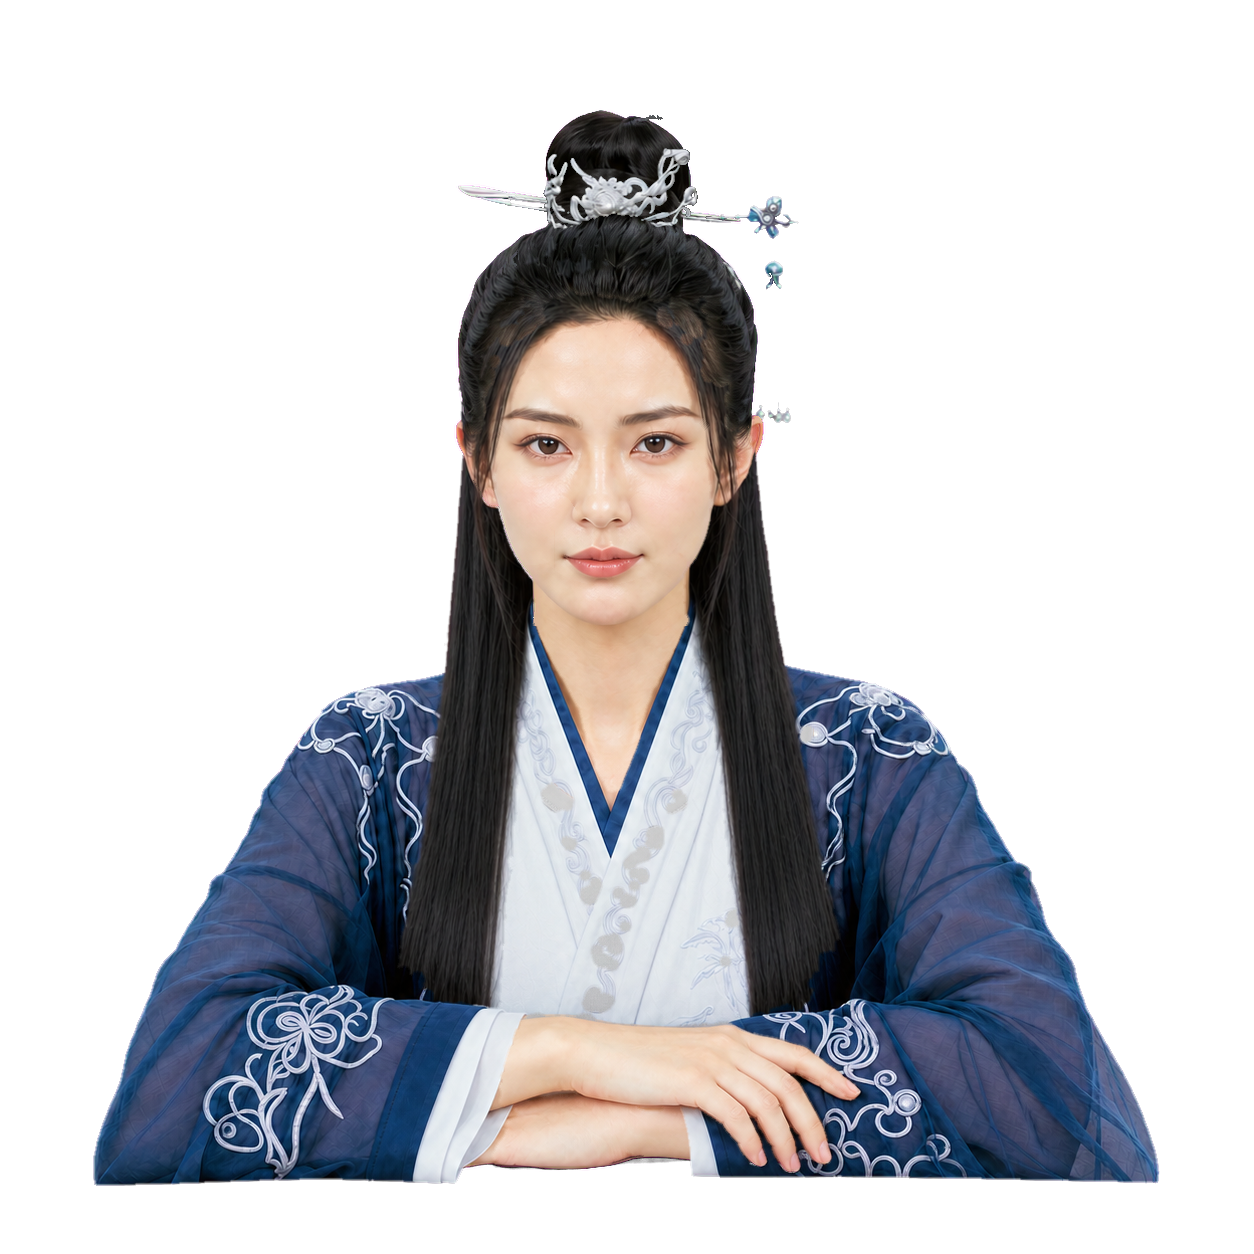
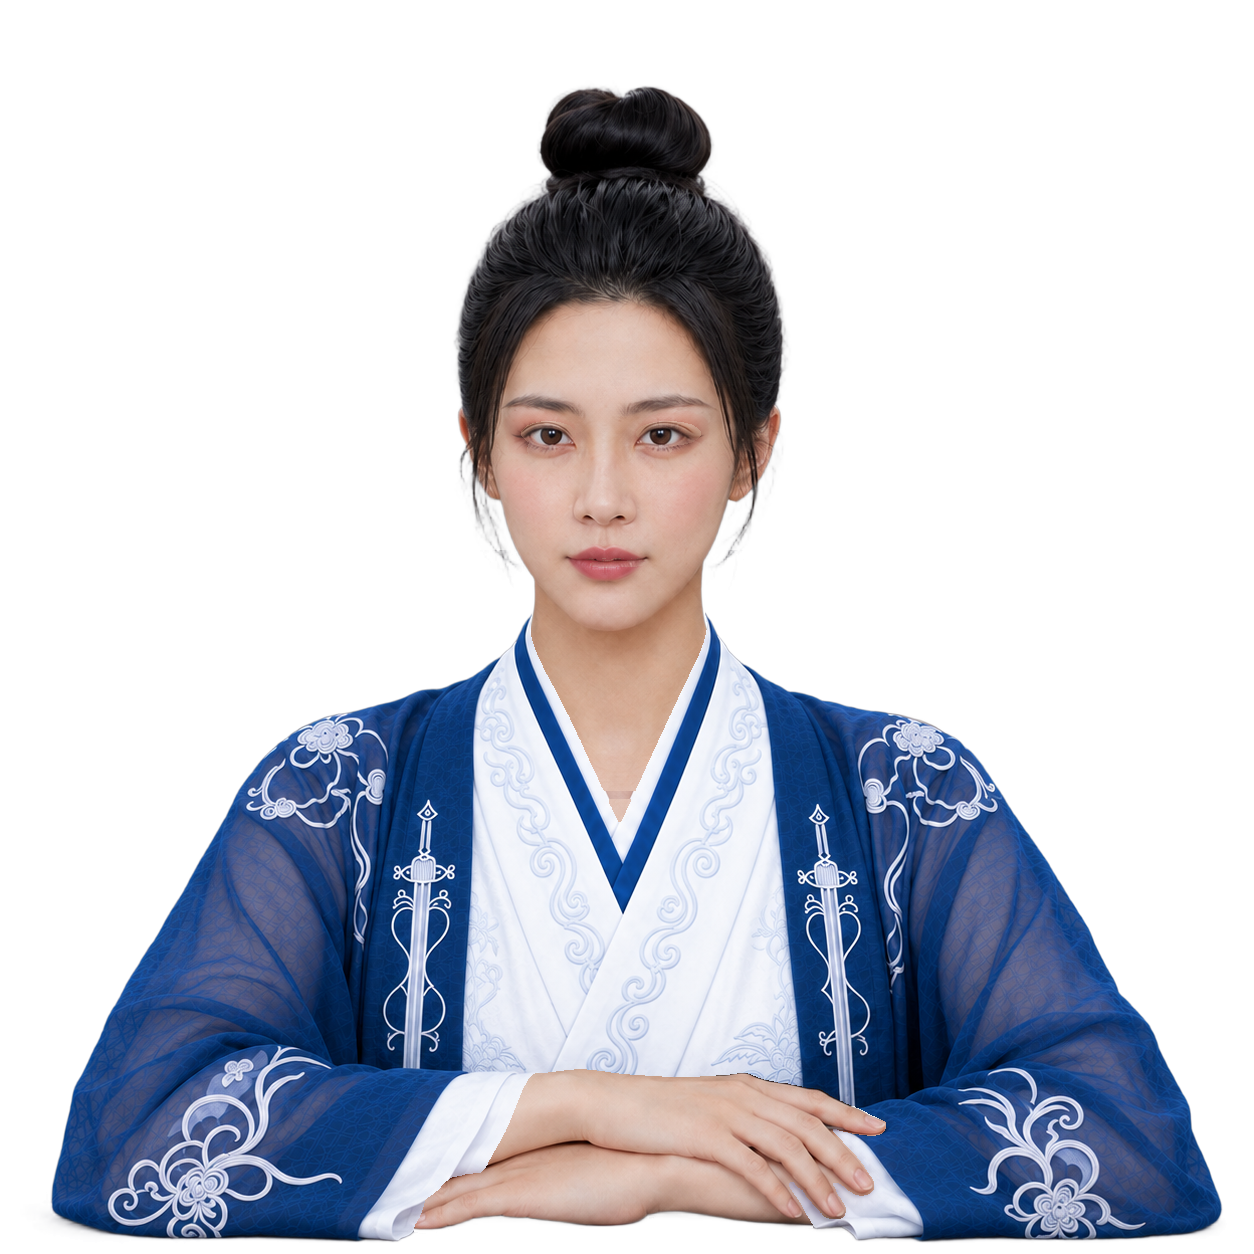
README 配圖同步 V5 外觀（行銷肖像改走產品完整表情渲染器）

diff --git a/tools/render_marketing_portraits.py b/tools/render_marketing_portraits.py
@@ -1,14 +1,10 @@
 """Render the composed half-body portraits used by README, installer and icon art.
 
-The runtime sprites under ``assets/expressions/`` are the bare generation-2
-base (bun, grey top, unpainted face); the official default outfit pack and the
-built-in ``classic`` makeup are composited over them at runtime by
-``infrastructure.active_outfit_overlay.ActiveOutfitOverlay``.  Marketing
-surfaces (README expression cards, installer wizard art, taskbar icon) must
-show that composed look, so this tool drives the very same overlay with a
-fresh, empty store -- which resolves to the official pack plus ``classic``
-makeup at 100 % intensity -- and writes the results to
-``docs/media/portraits/{expression}.png``.
+Marketing surfaces use the product half-body renderer after activating the
+selected character. Its installed V5 complete-expression frames provide the
+face and body; the official default outfit and built-in ``classic`` makeup use
+the same defaults as the approved product golden. Portrait resizing and canvas
+placement happen only after the product renderer has composed the appearance.
 
 Output is deterministic: the overlay paints fixed layers with fixed opacities
 and Qt's PNG encoder omits timestamp and software chunks, so re-running the
@@ -24,6 +20,7 @@ lazy import os
 lazy import sys
 lazy from collections.abc import Sequence
 lazy from pathlib import Path
+lazy from dataclasses import replace
 lazy from tempfile import TemporaryDirectory
 
 os.environ.setdefault("QT_QPA_PLATFORM", "offscreen")
@@ -39,11 +36,18 @@ lazy from PySide6.QtWidgets import QApplication
 lazy from application.character_runtime_bootstrap import activate_product_character_runtime
 lazy from domain.companion_animation_contract import EXPRESSION_POSES, outfit_silhouette
 lazy from infrastructure.active_outfit_overlay import ActiveOutfitOverlay
+lazy from infrastructure.layered_face_renderer import LayeredParametricFaceRenderer
+lazy from infrastructure.layered_face_assets import load_layered_face_assets
+lazy from domain.face_motion import FaceMotionController
+lazy from domain.character_runtime import CHARACTER_ASSET_PATHS
+lazy from domain.outfit_pack import restore_builtin_outfit
+lazy from domain.outfit_pack_makeup import (
+    DEFAULT_MAKEUP_INTENSITY, DEFAULT_SLOT_INTENSITIES_V2,
+    select_builtin_makeup, write_makeup_intensity, write_makeup_slot_intensity,
+)
 
-SPRITE_ROOT = ROOT / "assets" / "expressions"
 OUTPUT_ROOT = ROOT / "docs" / "media" / "portraits"
 PORTRAIT_SIZE = (1254, 1254)
-CLOSED_EYE_MAKEUP_SLOTS = frozenset({"eyes"})
 # The six README expression cards plus the canonical idle portrait that the
 # installer artwork and the taskbar icon are derived from.
 DEFAULT_EXPRESSIONS = (
@@ -63,33 +67,45 @@ def silhouette_for(expression: str) -> str:
     return outfit_silhouette(expression, EXPRESSION_POSES.get(expression, FRONT_POSE))
 
 
-def render_portrait(overlay: ActiveOutfitOverlay, expression: str) -> QImage:
-    source = SPRITE_ROOT / f"{expression}.png"
-    sprite = QPixmap(str(source))
-    if sprite.isNull():
-        raise RuntimeError(f"Half-body sprite could not be loaded: {source}")
-    if sprite.size().toTuple() != PORTRAIT_SIZE:
-        raise RuntimeError(f"Half-body sprite is not {PORTRAIT_SIZE}: {source}")
-    silhouette = silhouette_for(expression)
-    suppressed_makeup_slots = (
-        CLOSED_EYE_MAKEUP_SLOTS
-        if expression.startswith("blink") or expression.endswith("_speech_blink")
-        else frozenset()
+def prepare_marketing_store(store: Path) -> None:
+    """Select the same official outfit and classic defaults as the product golden."""
+    activate_product_character_runtime(ROOT)
+    restore_builtin_outfit(store)
+    write_makeup_intensity(store, DEFAULT_MAKEUP_INTENSITY)
+    for slot, intensity in DEFAULT_SLOT_INTENSITIES_V2.items():
+        write_makeup_slot_intensity(store, slot, intensity)
+    select_builtin_makeup(store, "classic")
+
+
+def portrait_renderer(overlay: ActiveOutfitOverlay) -> LayeredParametricFaceRenderer:
+    """Build the product half-body renderer after character activation."""
+    activate_product_character_runtime(ROOT)
+    return LayeredParametricFaceRenderer(
+        manifest=load_layered_face_assets(ROOT / CHARACTER_ASSET_PATHS["halfbody_layers"]),
+        outfit_overlay=overlay,
+        authority_dir=ROOT / CHARACTER_ASSET_PATHS["halfbody_root"],
+        detachable_dir=ROOT / CHARACTER_ASSET_PATHS["halfbody_detachable"],
     )
-    composed = overlay.apply(
-        sprite,
-        silhouette,
-        suppress_makeup_slots=suppressed_makeup_slots,
+
+
+def render_portrait(
+    overlay: ActiveOutfitOverlay,
+    expression: str,
+    *,
+    renderer: LayeredParametricFaceRenderer | None = None,
+    size: tuple[int, int] = PORTRAIT_SIZE,
+) -> QImage:
+    activate_product_character_runtime(ROOT)
+    pose = EXPRESSION_POSES.get(expression, FRONT_POSE)
+    motion = replace(
+        FaceMotionController().close(pose=pose, expression=expression), breath=0.0,
     )
-    if overlay.layer_count(
-        silhouette,
-        suppress_makeup_slots=suppressed_makeup_slots,
-    ) == 0:
-        raise RuntimeError(
-            f"No appearance layers were composited for {expression} ({silhouette}); "
-            "provide both the official default pack and the built-in makeup."
-        )
-    return composed.toImage().convertToFormat(QImage.Format_ARGB32)
+    base = QPixmap(*size)
+    base.fill(Qt.GlobalColor.transparent)
+    composed = (renderer or portrait_renderer(overlay)).render(base, motion, None)
+    if composed.isNull():
+        raise RuntimeError(f"Product renderer returned an empty portrait: {expression}")
+    return composed.toImage()
 
 
 def _alpha_bounds(image: QImage):
@@ -167,18 +183,19 @@ def render_all(
         raise ValueError("output names must match the expression count")
     written: list[tuple[Path, str]] = []
     with TemporaryDirectory(prefix="mohan-marketing-portraits-") as temporary:
-        # A fresh store with empty active.json / makeup.json selections resolves
-        # to the official pack and the built-in classic makeup at intensity 1.
+        store = Path(temporary) / "store"
+        prepare_marketing_store(store)
         overlay = ActiveOutfitOverlay(
-            Path(temporary) / "store",
+            store,
             ROOT,
             official_pack_root=ROOT / "assets" / "official-packs",
         )
+        renderer = portrait_renderer(overlay)
         for expression, name in zip(expressions, names, strict=True):
             if Path(name).name != name or not name.endswith(".png"):
                 raise ValueError(f"output name must be a PNG filename: {name}")
             image = _resize_portrait(
-                render_portrait(overlay, expression),
+                render_portrait(overlay, expression, renderer=renderer),
                 output_size,
                 crop_alpha=crop_alpha,
                 content_size=content_size,
@@ -220,7 +237,7 @@ def _arguments(argv: Sequence[str] | None) -> argparse.Namespace:
         "expressions",
         nargs="*",
         default=list(DEFAULT_EXPRESSIONS),
-        help="Sprite names under assets/expressions/ (default: the README six plus idle_front).",
+        help="Product expression names (default: the README six plus idle_front).",
     )
     parser.add_argument(
         "--output",

diff --git a/tests/test_render_marketing_portraits.py b/tests/test_render_marketing_portraits.py
@@ -1,0 +1,64 @@
+"""Marketing portraits retain the approved product pixel contract."""
+from __future__ import annotations
+
+lazy import json
+lazy from pathlib import Path
+
+lazy import pytest
+lazy from PySide6.QtWidgets import QApplication
+
+lazy from application.character_runtime_bootstrap import activate_product_character_runtime
+lazy from infrastructure.active_outfit_overlay import ActiveOutfitOverlay
+lazy from tools.golden_render import pixel_sha256
+lazy from tools.render_marketing_portraits import (
+    DEFAULT_EXPRESSIONS, ROOT, portrait_renderer, prepare_marketing_store, render_portrait,
+)
+
+
+SAVED_PORTRAIT_MEAN_DIFFERENCE_LIMIT = 0.002
+
+
+@pytest.mark.parametrize("expression", DEFAULT_EXPRESSIONS)
+def test_marketing_portrait_matches_approved_classic_rest(
+    tmp_path: Path, expression: str,
+) -> None:
+    activate_product_character_runtime(ROOT)
+    QApplication.instance() or QApplication([])
+    store = tmp_path / "store"
+    prepare_marketing_store(store)
+    overlay = ActiveOutfitOverlay(store, ROOT)
+    image = render_portrait(
+        overlay, expression, renderer=portrait_renderer(overlay), size=(465, 465),
+    )
+    manifest = json.loads((ROOT / "tests/golden/golden-manifest.json").read_text(encoding="utf-8"))
+    cell = next(
+        cell for cell in manifest["cells"]
+        if cell["id"] == f"half__{expression}__classic__rest"
+    )
+    assert image.size().toTuple() == (465, 465)
+    assert pixel_sha256(image) == cell["pixel_sha256"]
+
+
+@pytest.mark.parametrize("expression", DEFAULT_EXPRESSIONS)
+def test_saved_portrait_resizes_to_product_golden(tmp_path: Path, expression: str) -> None:
+    from PySide6.QtCore import Qt
+    from PySide6.QtGui import QImage
+    import numpy as np
+    from tools.golden_render import _rgba_bytes
+    from tools.render_marketing_portraits import render_all
+
+    render_all((expression,), tmp_path / "portraits")
+    image = QImage(str(tmp_path / "portraits" / f"{expression}.png")).scaled(
+        465, 465, Qt.IgnoreAspectRatio, Qt.SmoothTransformation,
+    )
+    store = tmp_path / "store"
+    prepare_marketing_store(store)
+    reference = render_portrait(
+        ActiveOutfitOverlay(store, ROOT), expression, size=(465, 465),
+    )
+    actual = np.frombuffer(_rgba_bytes(image), dtype=np.uint8).astype(int)
+    expected = np.frombuffer(_rgba_bytes(reference), dtype=np.uint8).astype(int)
+    difference = np.abs(actual - expected)
+    # PNG decoding and Qt premultiplied-alpha resizing round edge channels.
+    assert difference.max() <= 1
+    assert difference.mean() < SAVED_PORTRAIT_MEAN_DIFFERENCE_LIMIT

diff --git a/tools/capture_readme_media.py b/tools/capture_readme_media.py
@@ -45,7 +45,9 @@ lazy from tools.capture_media_contract import (
     select_dashboard_tab,
 )
 lazy from infrastructure.active_outfit_overlay import ActiveOutfitOverlay
-lazy from tools.render_marketing_portraits import render_all, render_portrait
+lazy from tools.render_marketing_portraits import (
+    prepare_marketing_store, render_all, render_portrait,
+)
 
 
 def seed_demo_database(db: StudioDB) -> None:
@@ -663,8 +665,10 @@ def capture_media(
         os.environ["MOHAN_DATA_DIR"] = temp_dir
         prepare_demo_profile(temp_dir)
         app = create_capture_app()
+        store = Path(temp_dir) / "marketing-store"
+        prepare_marketing_store(store)
         overlay = ActiveOutfitOverlay(
-            Path(temp_dir) / "marketing-store",
+            store,
             ROOT,
             official_pack_root=ROOT / "assets" / "official-packs",
         )

diff --git a/changelog.d/readme-media-v5-sync.md b/changelog.d/readme-media-v5-sync.md
@@ -1,0 +1,3 @@
+### README 配圖同步 V5 外觀／README 配图同步 V5 外观／Sync README media with the V5 appearance／README 画像を V5 の外観に同期
+
+- 行銷肖像改用產品完整表情渲染器、官方預設服裝與經典妝，並以已核准的 golden 做逐像素回歸檢查；README 肖像、贊助圖、首頁大圖與介面截圖全部依此重產。／营销肖像改用产品完整表情渲染器、官方默认服装与经典妆，并以已批准的 golden 做逐像素回归检查；README 肖像、赞助图、首页大图与界面截图全部据此重新生成。／Marketing portraits now use the product complete-expression renderer, the official default outfit and classic makeup, with pixel regression coverage against the approved golden; README portraits, support images, the hero image and UI screenshots were all regenerated from it.／マーケティング用ポートレートは製品の完全表情レンダラー、公式デフォルト衣装、クラシックメイクを使用し、承認済み golden との画素単位の回帰検査を備えます。README のポートレート、支援画像、ヒーロー画像、UI スクリーンショットはすべてこれで再生成しました。
